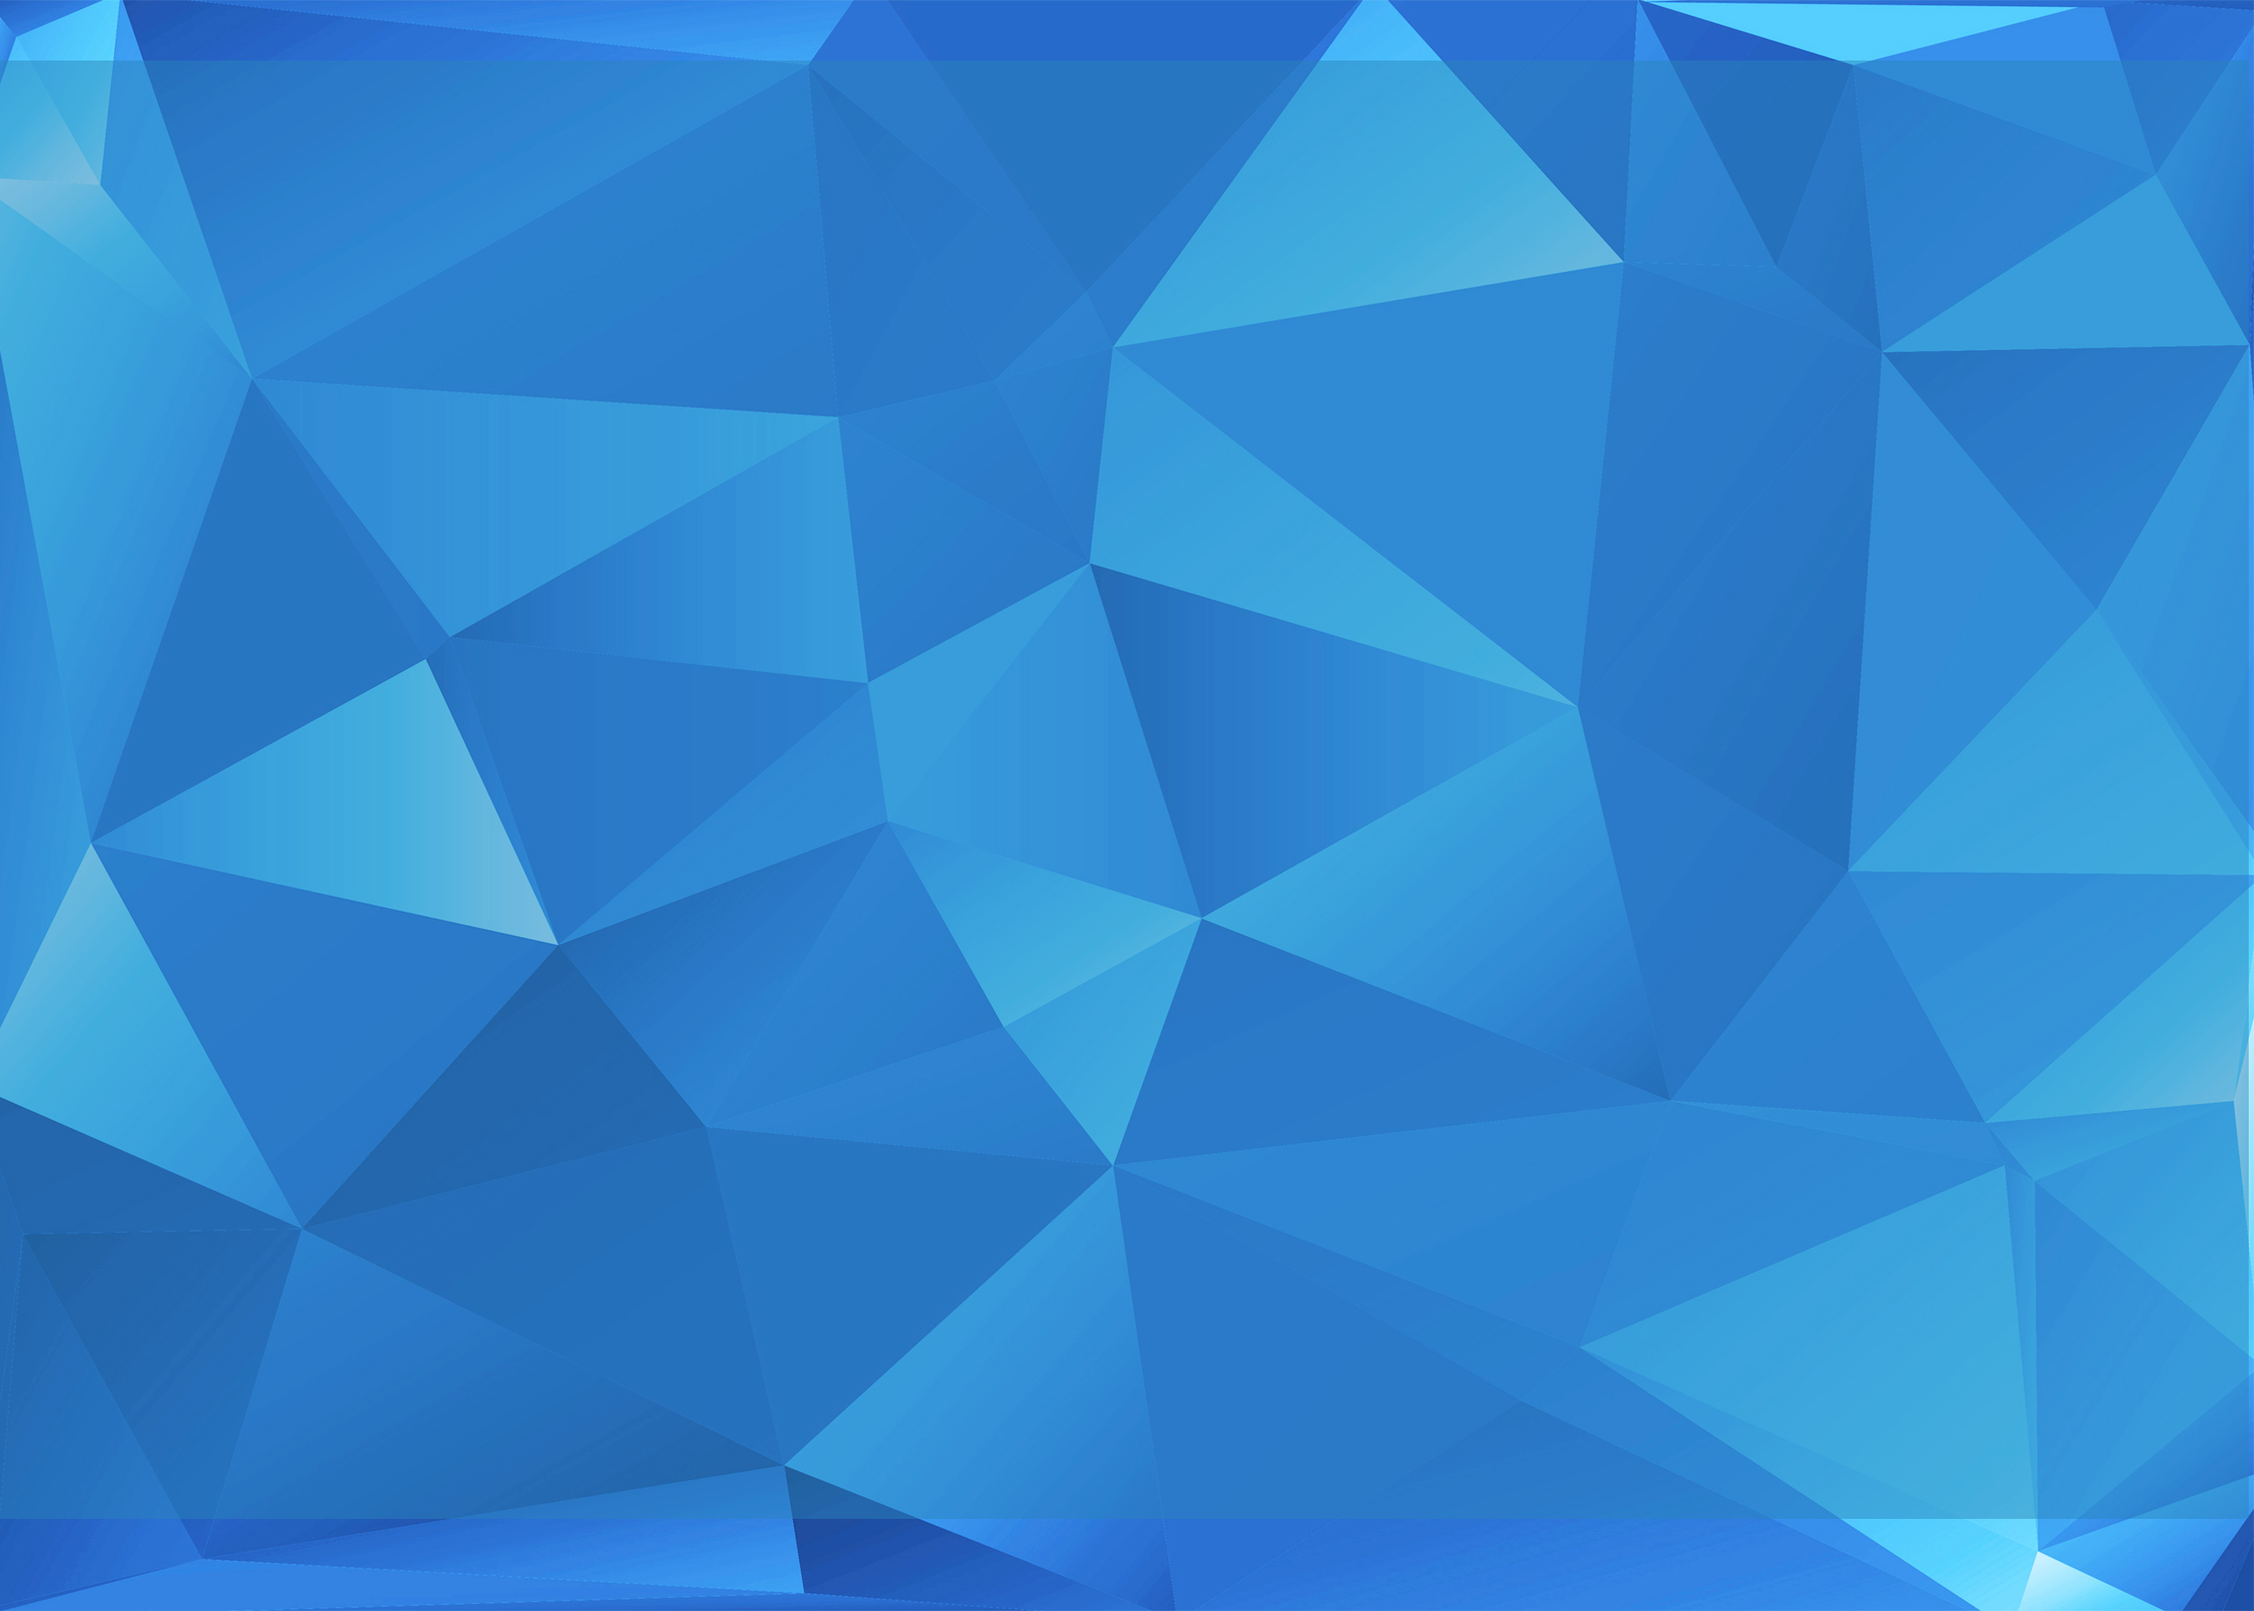
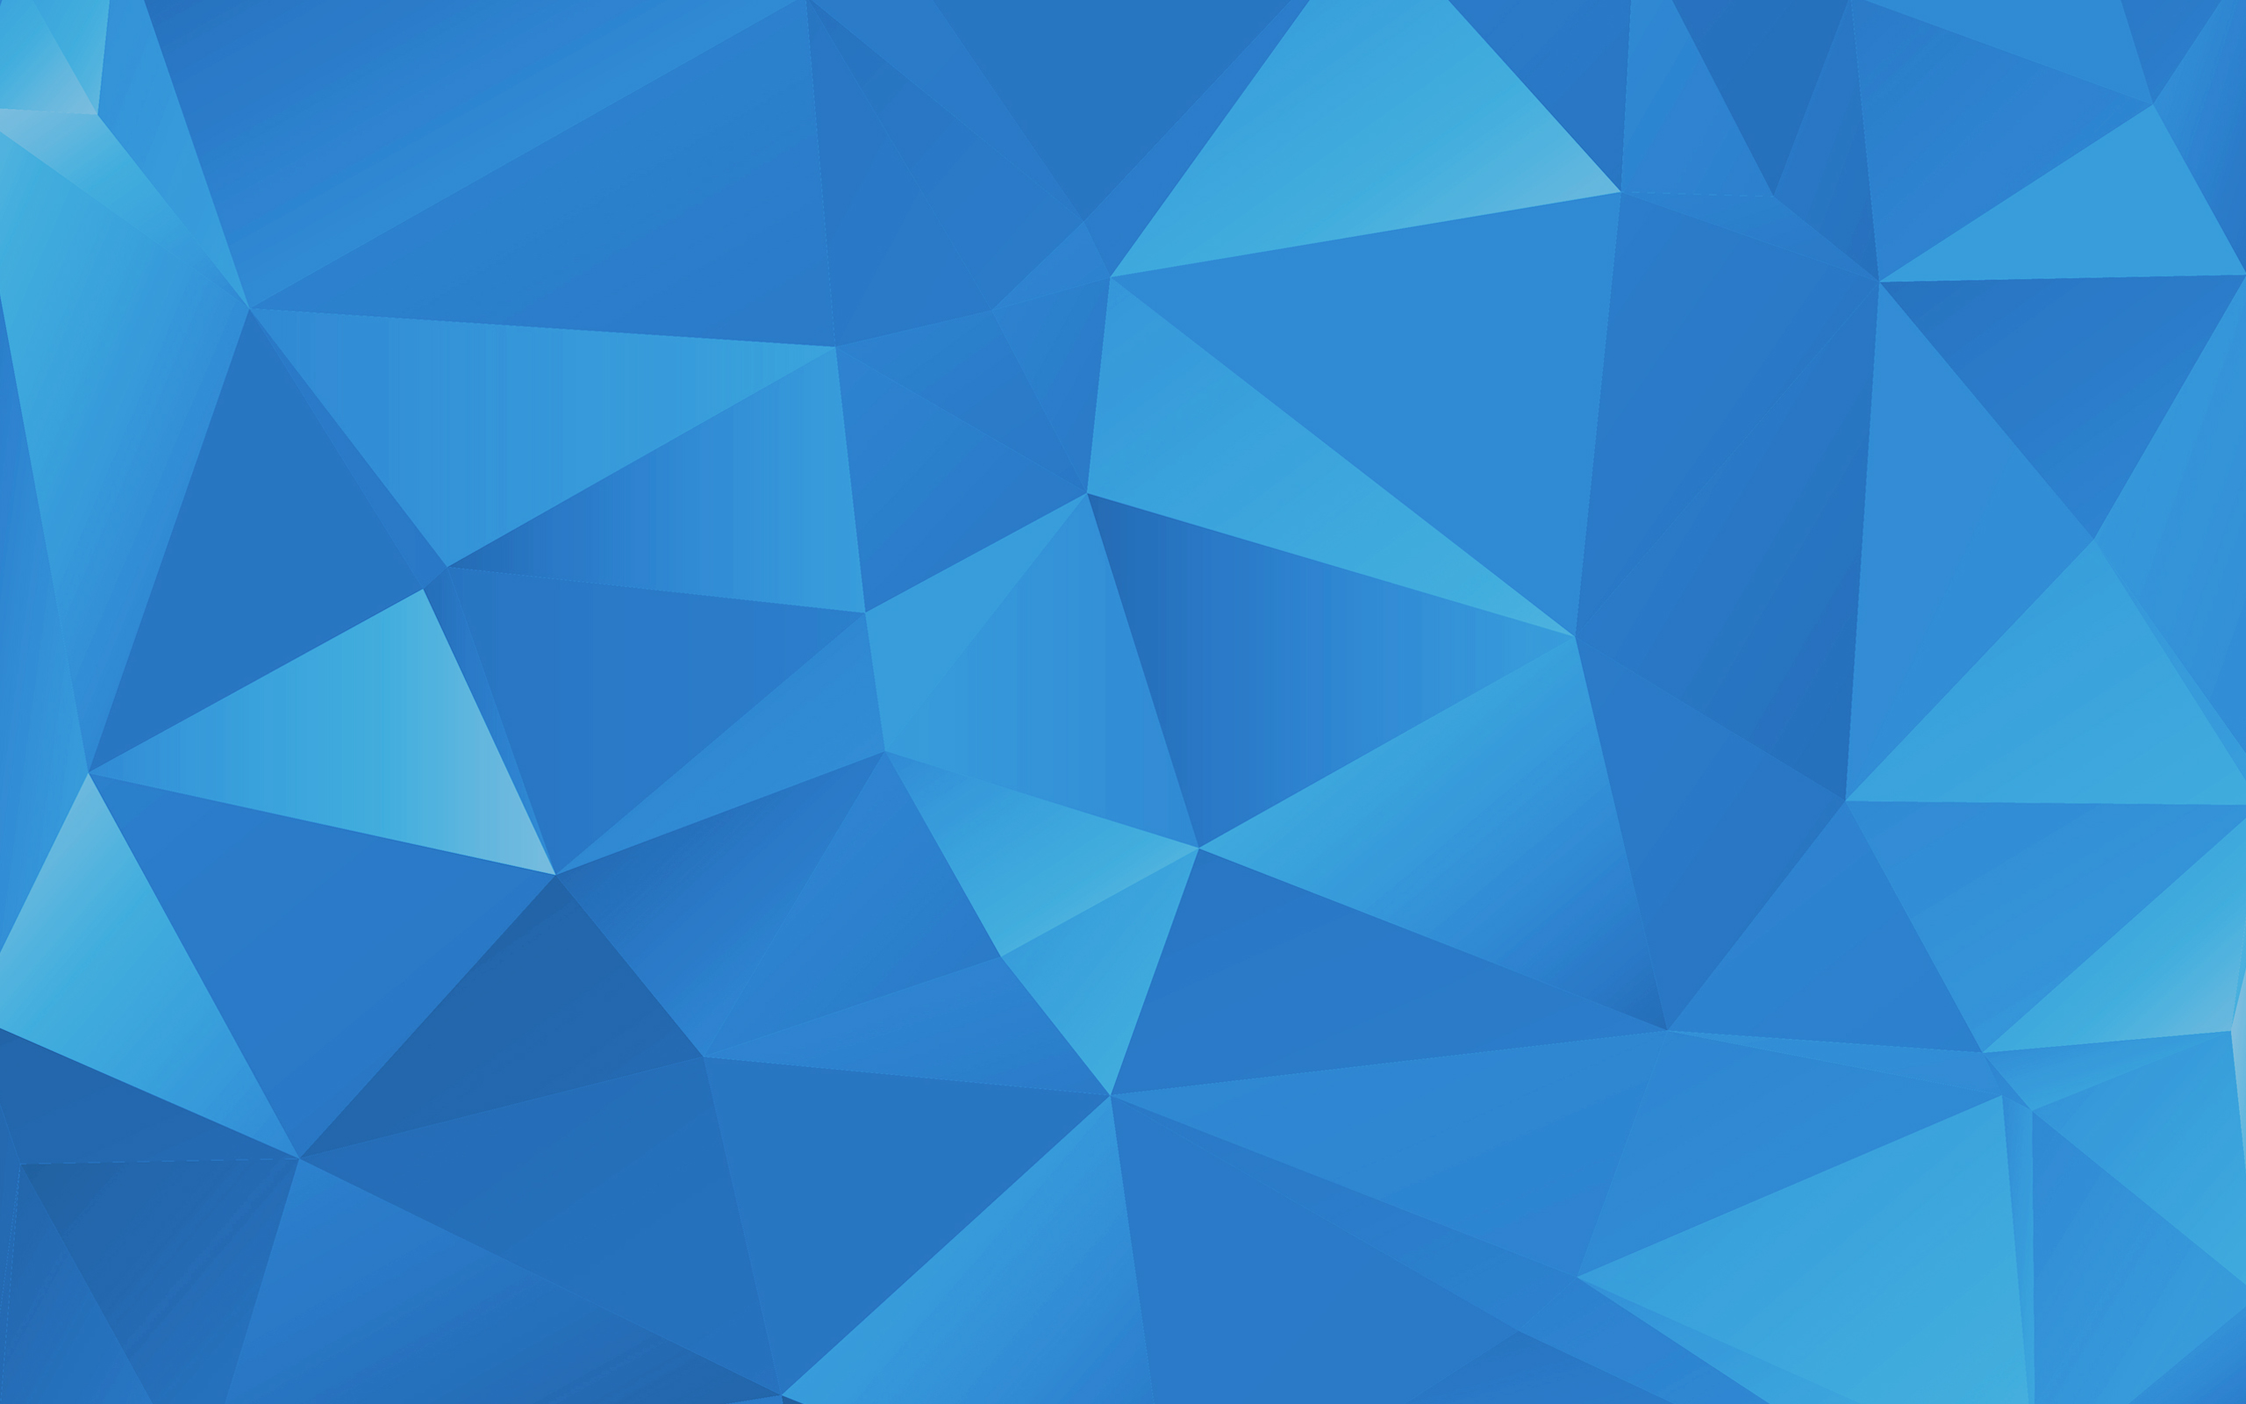
Screen page (replace bg + fix small screen)

diff --git a/css/components/_screenprofile/scrpro.css b/css/components/_screenprofile/scrpro.css
@@ -1,38 +1,63 @@
 #screen-profile {
-  width: 100%;
   height: 100%;
   background: url("../../../image/screenprofile/test.jpg") no-repeat center;
   background-size: cover;
   overflow: hidden; }
   #screen-profile #screen {
+    display: flex;
+    justify-content: center;
+    align-items: center;
     height: 100%; }
-    #screen-profile #screen .row .arms {
-      max-width: 17%;
-      margin: 6% auto 3%; }
-    #screen-profile #screen .row > p {
-      color: #fff;
-      font: 3.7em "Muse_0"; }
-    #screen-profile #screen .row .clock {
-      margin-top: 3%;
-      color: #fed500; }
-      #screen-profile #screen .row .clock #Date {
-        font: 26px 'Muse_0';
-        text-align: center;
-        text-shadow: 0 0 5px #00c6ff; }
-      #screen-profile #screen .row .clock ul {
-        padding: 0px;
-        text-align: center; }
-        #screen-profile #screen .row .clock ul > li {
-          display: inline;
-          font: 5em 'Muse_0';
+    #screen-profile #screen .row {
+      width: 100%; }
+      #screen-profile #screen .row .arms {
+        max-width: 17%;
+        margin: 0 auto 2%; }
+        @media only screen and (max-width: 767px) {
+          #screen-profile #screen .row .arms {
+            max-width: 27%; } }
+      #screen-profile #screen .row > p {
+        color: #fff;
+        font: 3.7em "Muse_0"; }
+        @media only screen and (max-width: 668px) {
+          #screen-profile #screen .row > p {
+            font-size: 3em; } }
+        @media only screen and (max-width: 420px) {
+          #screen-profile #screen .row > p {
+            font-size: 2em; } }
+      #screen-profile #screen .row .clock {
+        margin-top: 3%;
+        color: #fed500; }
+        #screen-profile #screen .row .clock #Date {
+          font: 26px 'Muse_0';
+          text-align: center;
           text-shadow: 0 0 5px #00c6ff; }
-        #screen-profile #screen .row .clock ul .point {
-          position: relative;
-          -moz-animation: mymove 1s ease infinite;
-          -webkit-animation: mymove 1s ease infinite;
-          padding-left: 10px;
-          padding-right: 10px;
-          vertical-align: super; }
+          @media only screen and (max-width: 668px) {
+            #screen-profile #screen .row .clock #Date {
+              font-size: 23px; } }
+          @media only screen and (max-width: 420px) {
+            #screen-profile #screen .row .clock #Date {
+              font-size: 20px; } }
+        #screen-profile #screen .row .clock ul {
+          padding: 0px;
+          text-align: center; }
+          #screen-profile #screen .row .clock ul > li {
+            display: inline;
+            font: 5em 'Muse_0';
+            text-shadow: 0 0 5px #00c6ff; }
+            @media only screen and (max-width: 668px) {
+              #screen-profile #screen .row .clock ul > li {
+                font-size: 3.5em; } }
+            @media only screen and (max-width: 420px) {
+              #screen-profile #screen .row .clock ul > li {
+                font-size: 3em; } }
+          #screen-profile #screen .row .clock ul .point {
+            position: relative;
+            -moz-animation: mymove 1s ease infinite;
+            -webkit-animation: mymove 1s ease infinite;
+            padding-left: 10px;
+            padding-right: 10px;
+            vertical-align: super; }
   #screen-profile #profile {
     display: none;
     height: 100%; }

diff --git a/css/components/_screenprofile/scrpro.scss b/css/components/_screenprofile/scrpro.scss
@@ -2,25 +2,39 @@
 
 //SCREEN
 #screen-profile{
-  width: $w_all;
   height: $w_all;
   background: url("../../../image/screenprofile/test.jpg") no-repeat center;
   background-size: cover;
   overflow: hidden;
 
   #screen{
+    display:flex;
+    justify-content:center;
+    align-items:center;
     height: 100%;
-    //display: none;
 
     .row{
+      width: 100%;
+
       .arms {
         max-width: 17%;
-        margin: 6% auto 3%;
+        margin: 0 auto 2%;
+
+        @include media-def-max($w_sm - 1){
+          max-width: 27%;
+        }
       }// /-arms
 
       >p{
         color: $c_white;
         font: 3.7em "Muse_0";
+
+        @include media-def-max($w_sm - 100){
+          font-size: 3em;
+        }
+        @include media-def-max($w_xs){
+          font-size: 2em;
+        }
       }
 
       .clock {
@@ -31,6 +45,13 @@
           font: 26px 'Muse_0';
           text-align: center;
           text-shadow:0 0 5px $c_shadowblue;
+
+          @include media-def-max($w_sm - 100){
+            font-size: 23px;
+          }
+          @include media-def-max($w_xs){
+            font-size: 20px;
+          }
         }// /-Date
 
         ul {
@@ -41,6 +62,13 @@
             display:inline;
             font: 5em 'Muse_0';
             text-shadow:0 0 5px $c_shadowblue;
+
+            @include media-def-max($w_sm - 100){
+              font-size: 3.5em;
+            }
+            @include media-def-max($w_xs){
+              font-size: 3em;
+            }
           }
 
           .point {

diff --git a/css/components/_mixin/mixin.scss b/css/components/_mixin/mixin.scss
@@ -18,6 +18,10 @@ $c_yellow: #fed500;
 // WIDTH==============================
 $w_all: 100%;
 $w_left-nav: 260px;
+$w_xs: 420px;
+$w_sm: 768px;
+$w_md: 992px;
+$w_lg: 1200px;
 
 // HEIGHT=============================
 $h_nav: 66px;
@@ -33,3 +37,23 @@ $f_muse: 'Muse', sans-serif;
     border-#{$place}: 1px solid $color;
   }
 }
+
+//MEDIA=========================
+//  MAX
+@mixin media-def-max($max:1){
+  @media only screen and(max-width: $max){
+    @content;
+  }
+}
+  //  MIN
+  @mixin media-def-min($min:0){
+    @media only screen and(min-width: $min){
+      @content;
+    }
+  }
+  //MAX-MIN
+  @mixin media-def-min_max($s:0, $e:1){
+    @media only screen and(min-width: $s) and (max-width: $e){
+      @content;
+    }
+  }

diff --git a/index.html b/index.html
@@ -86,6 +86,6 @@
 
     <!-- Clock-->
     <script src="js/advanced/clock.js"></script>
-    <script src="js/main.js"></script>
+    <!--<script src="js/main.js"></script>-->
 </body>
 </html>
